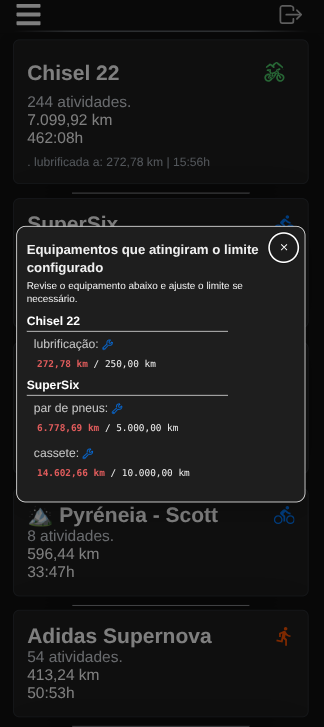
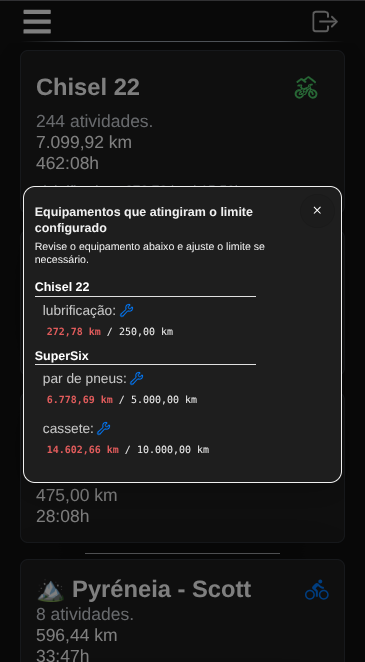
(refactor) how to work instructions

diff --git a/src/components/HowItWorksContent.tsx b/src/components/HowItWorksContent.tsx
@@ -11,7 +11,6 @@ export interface HowItWorksContentProps {
 }
 
 export default function HowItWorksContent({
-  showReferenceLink = false,
   showTopHeading = true,
 }: HowItWorksContentProps) {
   const BLUR_DATA_URL =
@@ -154,10 +153,41 @@ export default function HowItWorksContent({
           Na seção de componentes, defina o valor do limite em km e clique em
           &quot;Salvar&quot;.
         </li>
+        <div className={styles.screen}>
+          <Image
+            src='/images/threshold-editor.png'
+            alt='Edição do limite de distância para um componente'
+            width={203}
+            height={387}
+            loading='lazy'
+            placeholder='blur'
+            blurDataURL={BLUR_DATA_URL}
+            sizes='(max-width: 480px) 90vw, 240px'
+          />
+        </div>
         <li>
           O limite é persistido e a barra de progresso será exibida em cada
-          item.
+          item. A barra de progresso é calculada com base na distância acumulada
+          do componente em relação ao limite definido. Se a distância acumulada
+          atingir ou ultrapassar o limite, a barra de progresso ficará vermelha
+          para indicar que o componente precisa de atenção. Se a barra de
+          progresso estiver azul, significa que o componente ainda está dentro
+          do limite definido e não requer manutenção imediata. E se a barra
+          estiver amarela significa que o componente está se aproximando do
+          limite definido e pode precisar de manutenção em breve.
         </li>
+        <div className={styles.screen}>
+          <Image
+            src='/images/threshold-progress-bar.png'
+            alt='Barra de progresso indicando o status do componente em relação ao limite definido'
+            width={203}
+            height={387}
+            loading='lazy'
+            placeholder='blur'
+            blurDataURL={BLUR_DATA_URL}
+            sizes='(max-width: 480px) 90vw, 240px'
+          />
+        </div>
       </ol>
       <Divider className={styles.divider} style={{ margin: 'auto' }} />
       <h2>Passo 4: Lista de Códigos dos Componentes</h2>